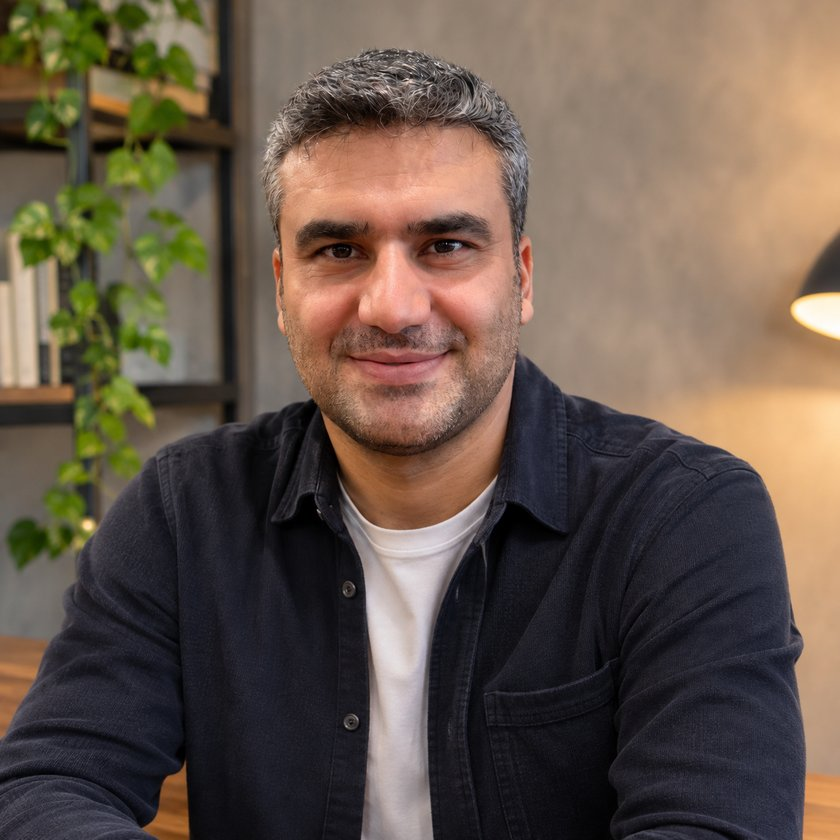
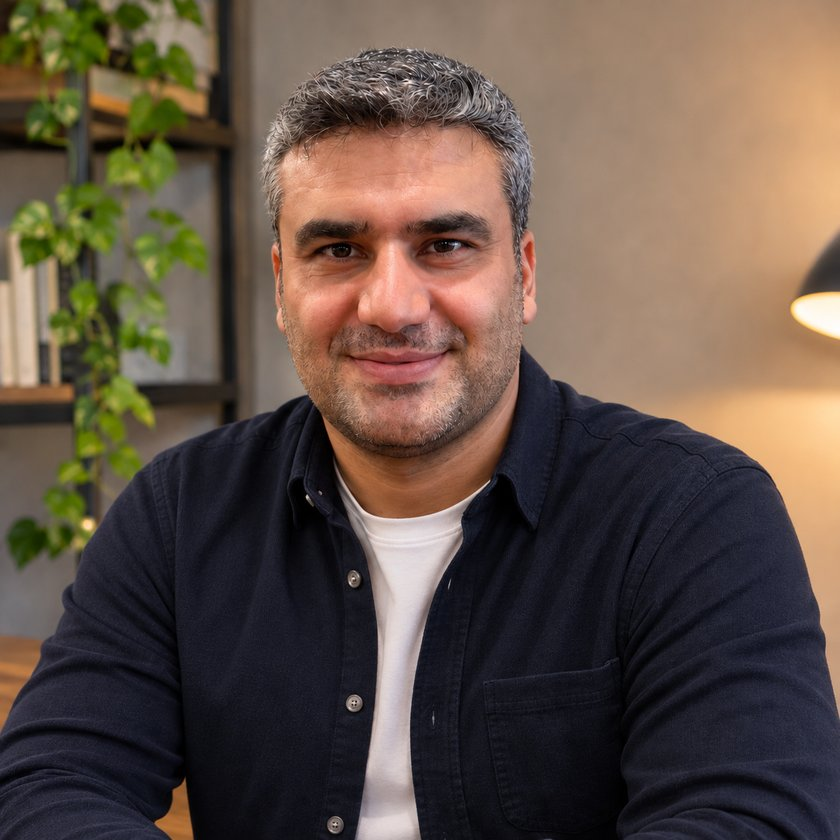
Update profile photo

diff --git a/tr/index.html b/tr/index.html
@@ -82,7 +82,7 @@
   <section class="hero">
     <div class="container hero__inner">
       <div class="hero__text">
-        <img class="hero__avatar" src="../assets/img/profile.jpg" width="168" height="168" alt="Musa Peker">
+        <img class="hero__avatar" src="../assets/img/profile.jpg?v=2" width="168" height="168" alt="Musa Peker">
         <h1>Musa Peker, PhD</h1>
         <p class="hero__role">Lead AI Engineer &amp; Uygulamalı Yapay Zekâ Araştırmacısı · Bursa, Türkiye</p>
         <p class="hero__lede">
@@ -100,7 +100,7 @@
         </div>
       </div>
       <div class="hero__photo">
-        <img src="../assets/img/portrait.jpg" width="320" height="320" alt="Musa Peker">
+        <img src="../assets/img/portrait.jpg?v=2" width="320" height="320" alt="Musa Peker">
       </div>
     </div>
 

diff --git a/index.html b/index.html
@@ -82,7 +82,7 @@
   <section class="hero">
     <div class="container hero__inner">
       <div class="hero__text">
-        <img class="hero__avatar" src="assets/img/profile.jpg" width="168" height="168" alt="Musa Peker">
+        <img class="hero__avatar" src="assets/img/profile.jpg?v=2" width="168" height="168" alt="Musa Peker">
         <h1>Musa Peker, PhD</h1>
         <p class="hero__role">Lead AI Engineer &amp; Applied AI Researcher · Bursa, Türkiye</p>
         <p class="hero__lede">
@@ -100,7 +100,7 @@
         </div>
       </div>
       <div class="hero__photo">
-        <img src="assets/img/portrait.jpg" width="320" height="320" alt="Musa Peker">
+        <img src="assets/img/portrait.jpg?v=2" width="320" height="320" alt="Musa Peker">
       </div>
     </div>
 
